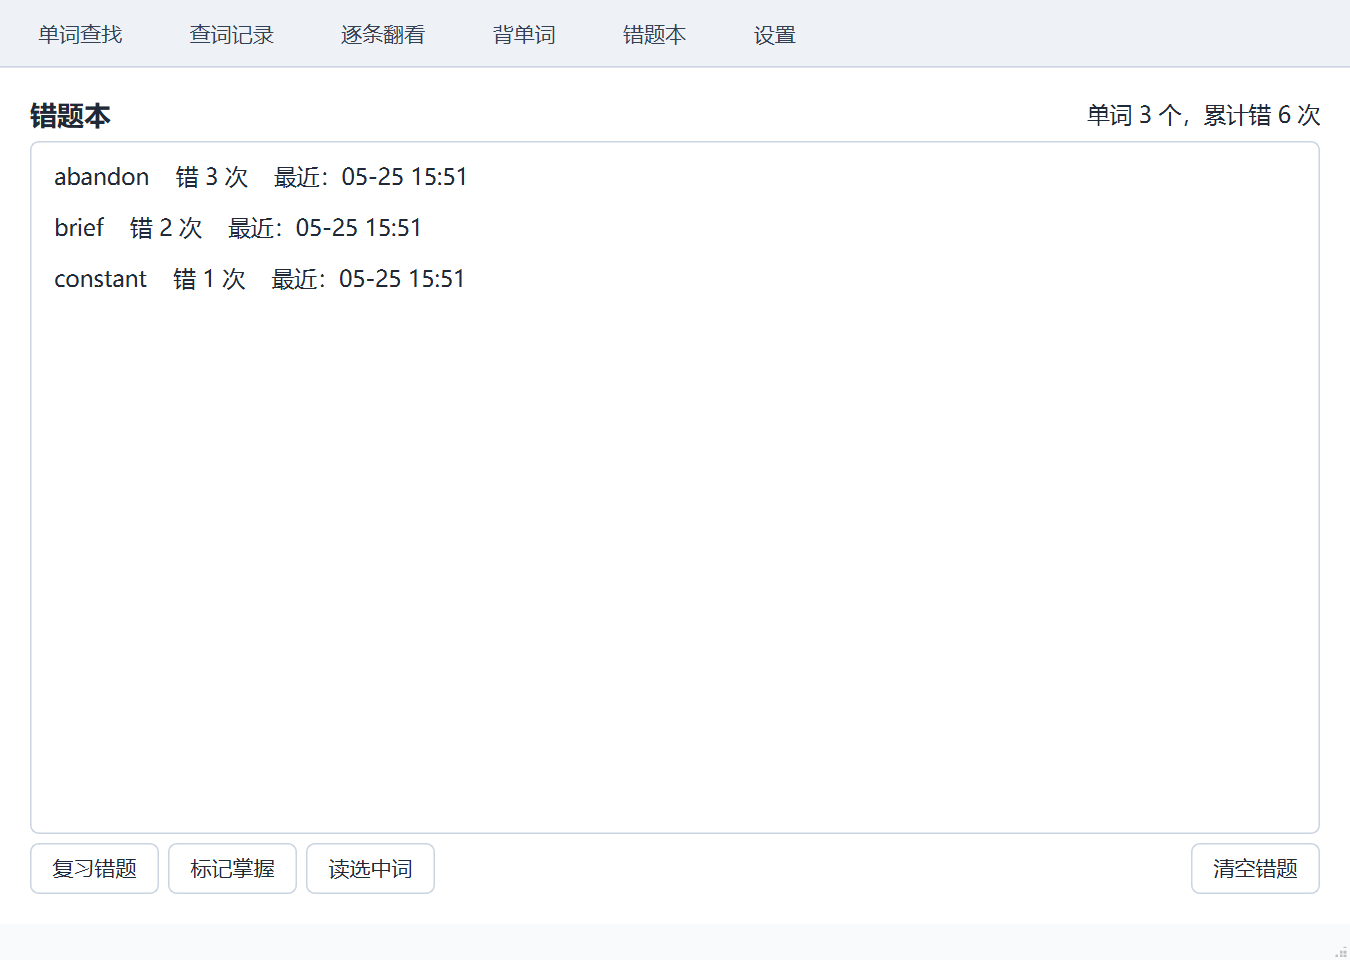
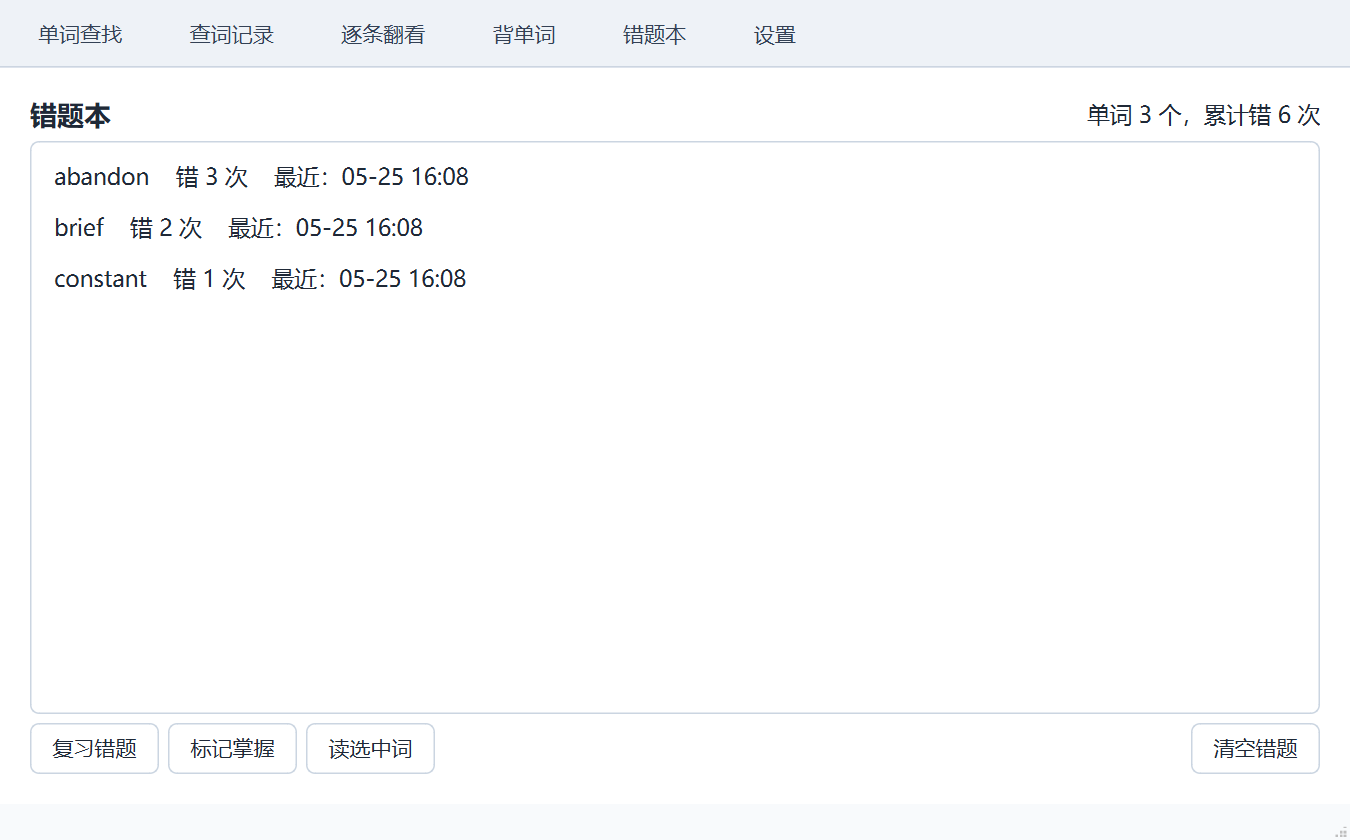
Polish README presentation

Changed region(s): [[0.0, 0.0, 1.0, 0.3405], [0.0311, 0.8357, 0.3422, 0.9286], [0.8711, 0.8357, 0.9644, 0.9286]]

diff --git a/mainwindow.cpp b/mainwindow.cpp
@@ -106,7 +106,7 @@ bool MainWindow::exportReadmeScreens(const QString &outputDir)
     if(!dir.exists() && !dir.mkpath("."))
         return false;
 
-    resize(900,640);
+    resize(900,560);
     show();
 
     auto grabPage=[&](const QString &fileName)->bool

diff --git a/README.md b/README.md
@@ -1,88 +1,76 @@
-# QtDictionary 优化版
+# QtDictionary Pro
 
-本项目基于 [bugcat9/QtDictionary](https://github.com/bugcat9/QtDictionary.git) 修改优化，是一个使用 Qt Widgets 实现的英语电子词典和背单词工具。
+基于 [bugcat9/QtDictionary](https://github.com/bugcat9/QtDictionary.git) 二次优化的 Qt Widgets 英语电子词典。项目保留红黑树词典检索结构，并补充了更直接的页面导航、键盘优先的背词流程和持久化错题本。
 
-* 使用 Qt 实现电子词典界面，采用红黑树进行单词搜索
-* 支持查询、历史、逐条浏览、背单词、错题本和词库维护
-* 词库文件统一放在 `txt/output_utf8_file.txt`
-* 支持 Qt 5 / Qt 6 环境构建，项目文件已加入多媒体和文本朗读模块
+## 功能亮点
 
-## 需求规格说明
+- 单词查询：支持英文查询、中文释义、音标显示、朗读和查询历史。
+- 背单词：支持中文提示、回车提交、自动进入下一题，答错后自动加入错题本。
+- 错题本：错题会保存到本机应用数据目录的 `wrong_words.json`，可复习、朗读、标记掌握或清空。
+- 词库管理：支持添加、删除、更新单词，也支持从文本文件批量导入。
+- 词库路径：统一使用 `txt/output_utf8_file.txt`，并附带 `txt/phonetics.txt` 音标数据。
 
-电子辞典是一种将传统的印刷词典转成数码方式、进行快速查询的学习工具，成为 21世纪学生学习生活的掌上利器。 在很多实际应用中，动态索引结构在文件创建或初始装入记录时生成，在系统运行过程中插入或删除记录时，为了保持较好的检索性能，索引结构本身将随之发生改变。教材上已经介绍的动态查找数据结构包括：二叉搜索树（BST）、平衡二叉树（AVL）、红黑树（RBT）、B-树。 
-
-本题要求选取一种已经学过的动态搜索树结构，设计并实现一个基于英语四级词汇的电子辞典软件。 
-
-## 总体分析与设计
-
-* 设计思想：
-  * 存储结构：红黑树
-  * 主要算法思想：对红黑树经行操作以实现基本的单词的查找等功能
-* 设计表示：
-  1. 主要类：Dictionary，负责电子词典的控制逻辑，主要的数据成员DicTree，主窗口类负责显示
-  2. 类中的insert、remove、update、Find实现对单词的插入、删除、更新、查找
-
-
-
-## 主要功能
-
-1. 查询
-2. 查看历史
-3. 逐条查看
-4. 背单词
-5. 错题本
-6. 设置
-   * 插入
-   * 删除
-   * 更改
-   * 选择单词文本文件
-
-## 本优化版改进
-
-1. 增加顶部工具栏入口，让查询、历史、逐条查看、背单词、错题本、设置等页面切换更直接。
-2. 背单词页面支持按回车提交答案，答题后自动进入下一题，减少重复点击。
-3. 增加持久化错题本，答错的单词会保存到本机应用数据目录的 `wrong_words.json`。
-4. 错题本支持查看、朗读、复习、标记掌握和清空。
-5. 词库路径统一为 `txt/output_utf8_file.txt`，构建时会把 `txt` 文件夹复制到可执行文件目录。
-6. 增加音标词库 `txt/phonetics.txt`，用于改善朗读和学习体验。
-
-
-
-## 使用说明
-
-1. 查询：可以通过查询直接查询英文的意思，并且可以发音，可以通过逐条翻看查看各个单词
-2. 背单词功能：可以根据中文提示和发音答出英文单词，输入完整单词后按回车或点击确认
-3. 错题本：答错的单词会自动加入错题本，可集中复习并在掌握后移除
-4. 设置：可以删除、添加、更新单词，也可以通过文本文件批量添加词库
-
-## 界面展示
+## 界面预览
 
 以下图片由当前程序运行时导出，展示的是实际 Qt 界面效果。
 
-查询界面：
+<table>
+  <tr>
+    <td width="50%">
+      <strong>单词查询</strong><br>
+      <img src="./image/optimized-search.png" alt="单词查询界面" width="100%">
+    </td>
+    <td width="50%">
+      <strong>背单词</strong><br>
+      <img src="./image/optimized-remember.png" alt="背单词界面" width="100%">
+    </td>
+  </tr>
+  <tr>
+    <td colspan="2">
+      <strong>错题本</strong><br>
+      <img src="./image/optimized-wrongbook.png" alt="错题本界面" width="100%">
+    </td>
+  </tr>
+</table>
 
-![查询界面](image/optimized-search.png)
+## 项目结构
 
-背单词：
+```text
+QtDictionary.pro          qmake 项目文件
+main.cpp                  程序入口
+mainwindow.*              主窗口、导航、查询、背词和错题本逻辑
+dictionary.*              词典读写和查询逻辑
+rbtree.*                  红黑树实现
+showword.*                单词详情窗口
+txt/                      词库和音标数据
+image/                    README 展示图片
+transfer.py               词库转换脚本
+```
 
-![背单词界面](image/optimized-remember.png)
+## 编译运行
 
-错题本：
-
-![错题本界面](image/optimized-wrongbook.png)
-
-## 编译
-
-使用 qmake 编译 `QtDictionary.pro`：
+安装 Qt 后，在项目根目录执行：
 
 ```powershell
 qmake QtDictionary.pro
 mingw32-make
 ```
 
-项目文件已配置 `txt` 文件夹复制规则。编译后如果运行时词库为空，请确认可执行文件同级目录下存在：
+编译后运行可执行文件。若运行时词库为空，请确认可执行文件同级目录存在：
 
 ```text
 txt/output_utf8_file.txt
 txt/phonetics.txt
 ```
+
+在本机 Qt 6.11 + MinGW 环境中，建议把 Qt 自带 MinGW 放到 `PATH` 前面，避免系统中旧版 GCC 头文件干扰编译。
+
+```powershell
+$env:PATH="C:\Qt\Tools\mingw1310_64\bin;C:\Qt\6.11.0\mingw_64\bin;" + $env:PATH
+qmake QtDictionary.pro
+mingw32-make
+```
+
+## 设计说明
+
+本项目面向英语四级词汇电子辞典场景，使用红黑树维护动态索引，以支持查询、插入、删除和更新等操作。相比原始版本，本优化版重点改善日常使用流程：减少菜单层级、强化键盘操作、保留错题数据，并统一词库生成、构建复制和运行时读取路径。